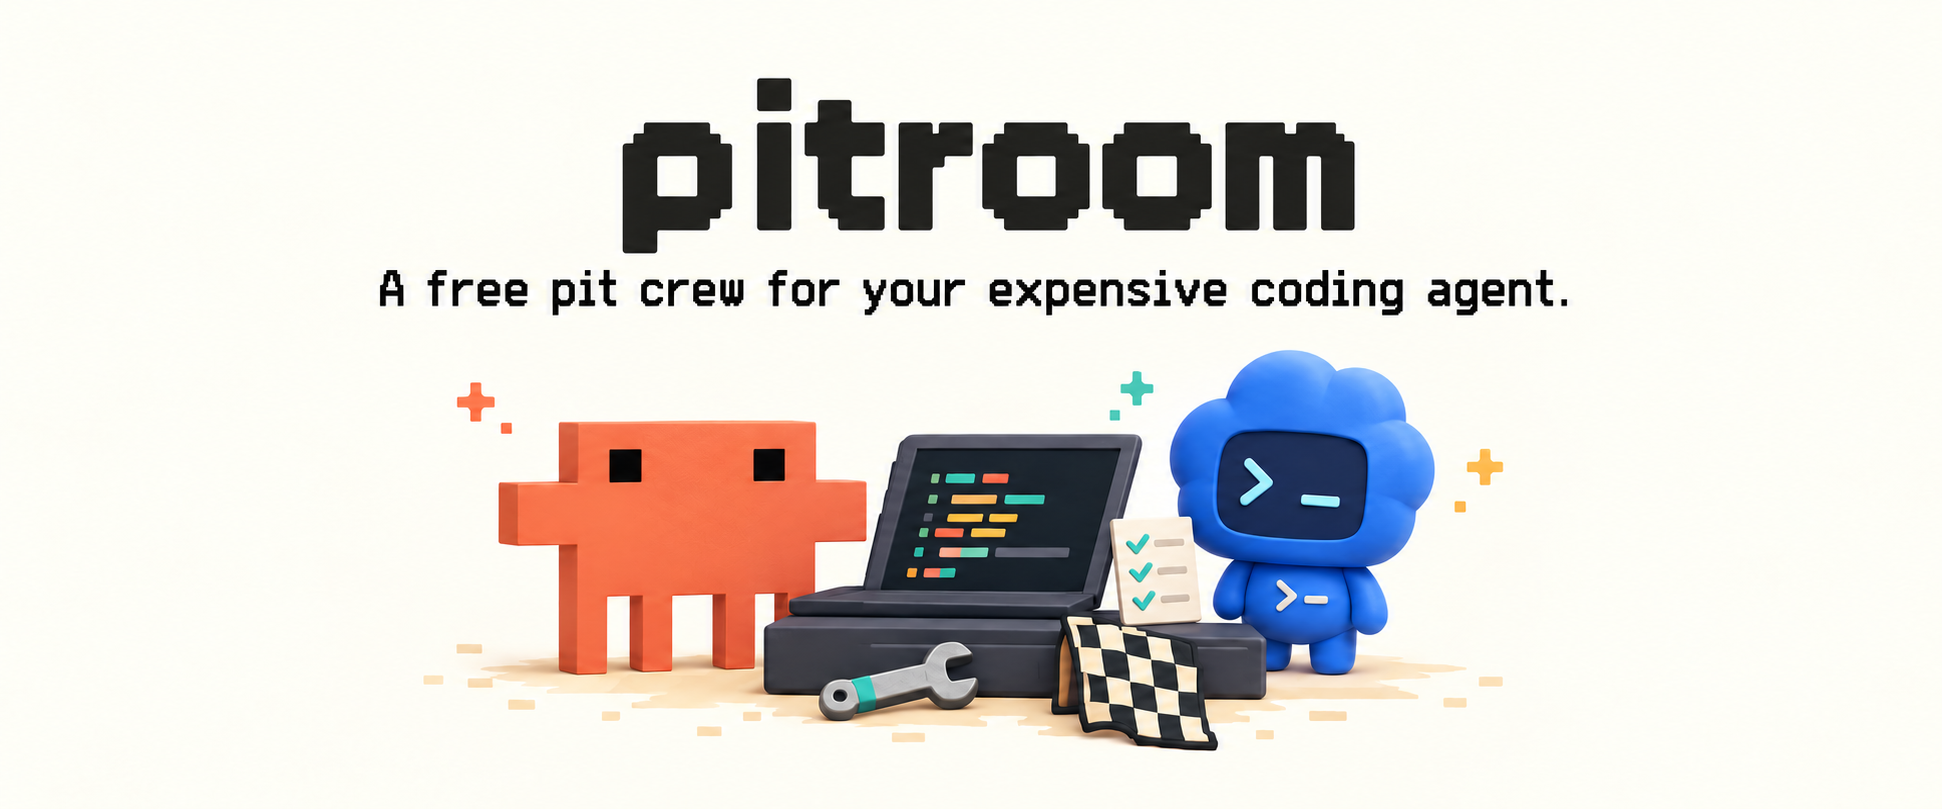
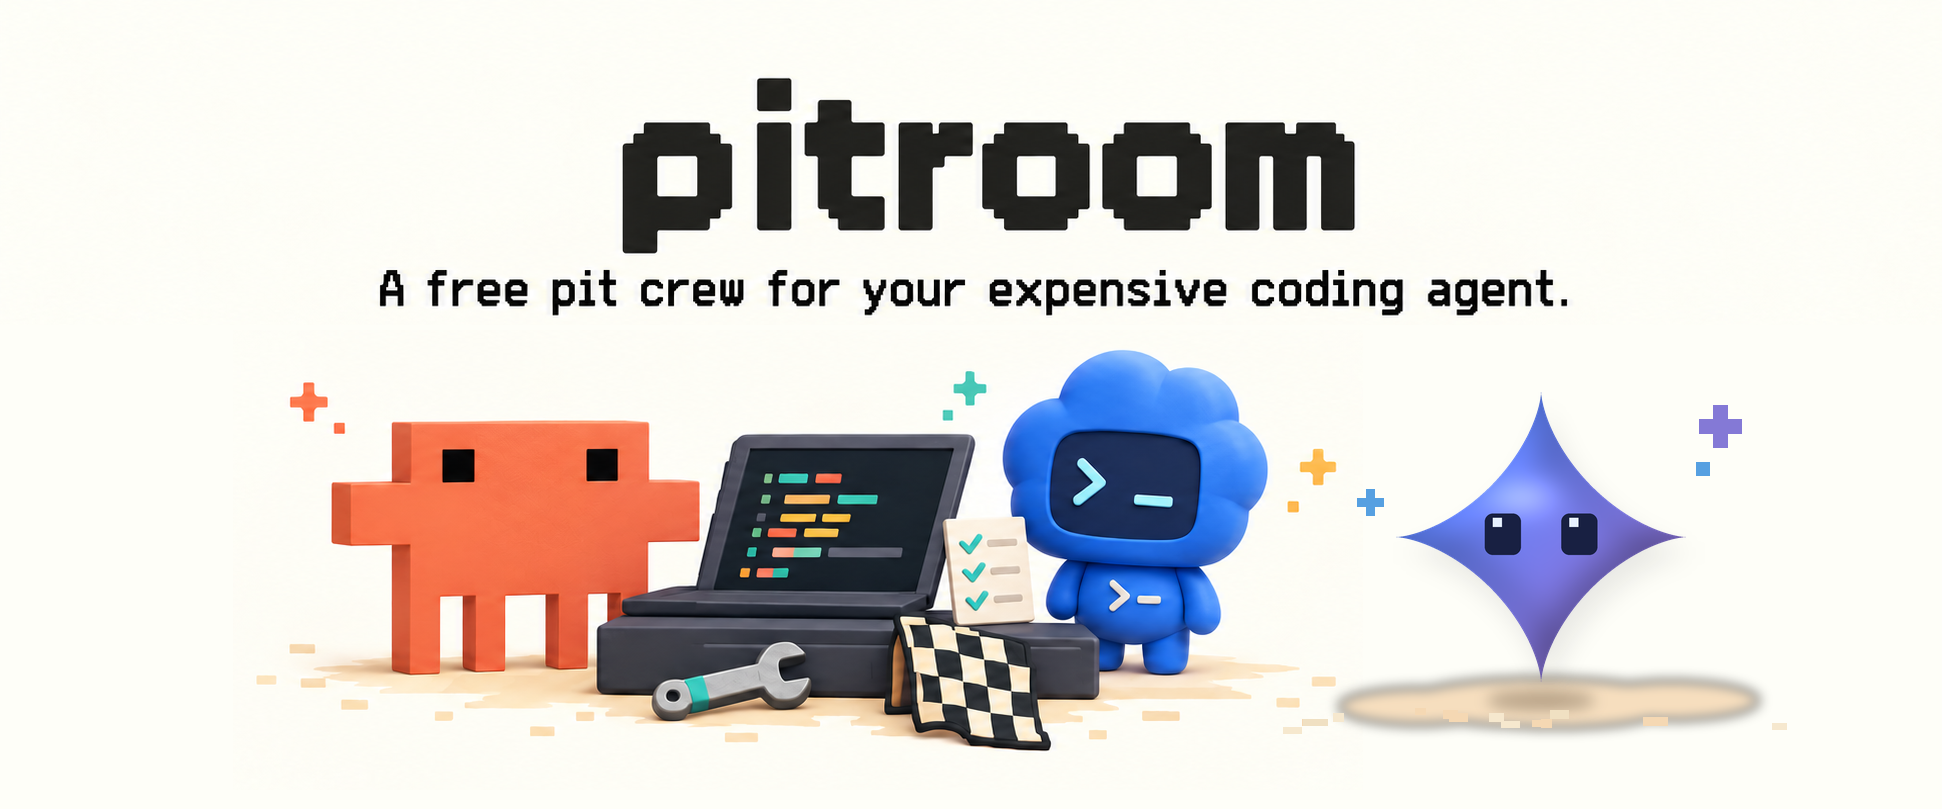
docs: Gemini star in the hero image

Changed region(s): [[0.1236, 0.4326, 0.9269, 0.9271], [0.8651, 0.4944, 0.896, 0.5871], [0.1545, 0.4635, 0.1854, 0.5253]]

diff --git a/README.md b/README.md
@@ -31,7 +31,7 @@ Model-agnostic · Verified answers · Receipts, not vibes · OpenCode / Codex / 
 
 <br />
 
-<img src="docs/pitroom-hero.png" alt="Pitroom — a free pit crew for your expensive coding agent. Orange Claw’d and a blue terminal-faced Codex pet work together at a coding terminal." width="94%" />
+<img src="docs/pitroom-hero.png" alt="Pitroom — a free pit crew for your expensive coding agent. Orange Claw’d, a blue terminal-faced Codex pet and a purple-blue Gemini star work together at a coding terminal." width="94%" />
 
 <br />
 
